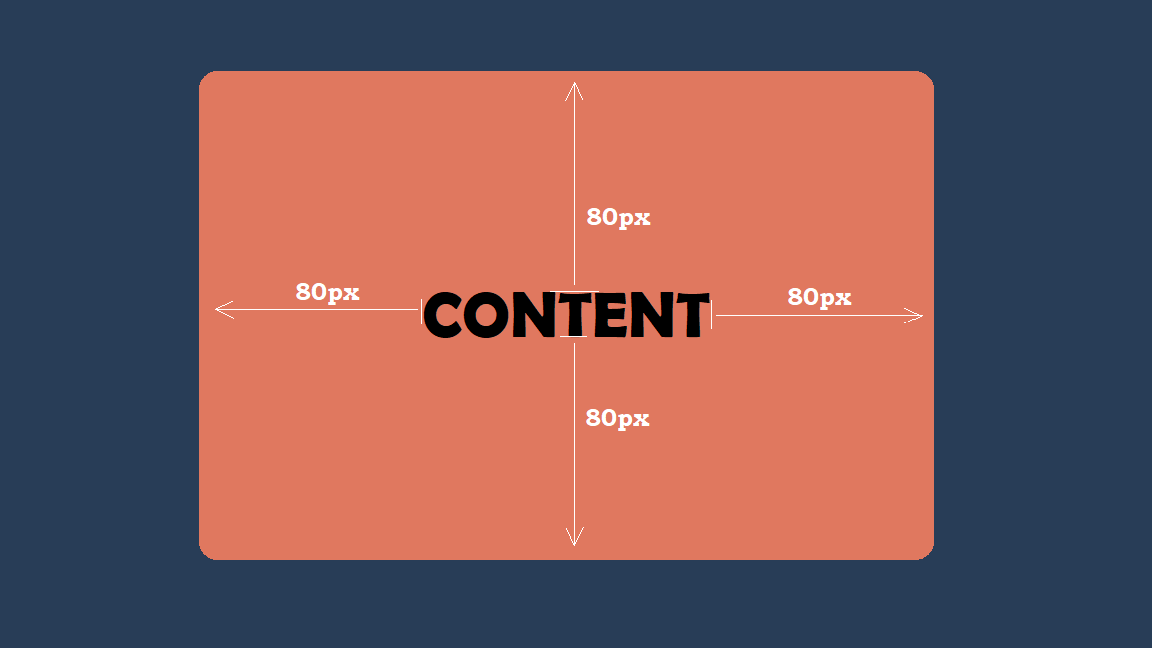
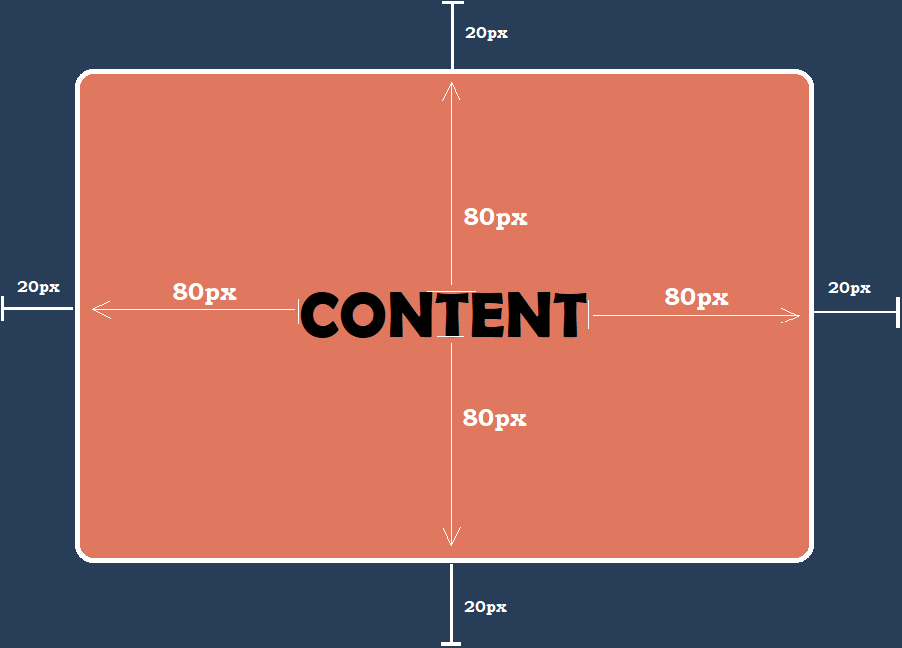
Image and text correction

Changed region(s): [[0.0, 0.0, 0.9623, 1.0], [0.9933, 0.463, 1.0, 0.5247]]

diff --git a/index.html b/index.html
@@ -28,46 +28,50 @@
             </div>
             <div>
                 <p>
-                .example1{
-                    padding:<strong>80px;</strong> 
-                } 
+                .example1{</br>
+                    padding:<strong>80px;</strong><br>
+                    margin: <strong>20px;</strong><br>
+                }<br>
                 </p>
                 <img src="./1VAL.png">
                 <p>
-                    One value is used when the same padding is applied to all four sides of the content.
+                    One value is used when the same quantity is applied to all four sides of the content.
                 </p>
             </div> 
             <div>
                 <p>
-                    .example2{
-                        padding:<strong> 15px 10px ;</strong>  
+                    .example2{ <br>
+                        padding:<strong> 10px 15px ;</strong> <br>
+                        margin: <strong>50px 5px;</strong> <br>
                     }
                 </p>
-                <img src="https://blog.hubspot.com/hs-fs/hubfs/Google%20Drive%20Integration/Update%20css%20margin%20vs%20padding-4.png?width=400&name=Update%20css%20margin%20vs%20padding-4.png">
+                <img src="./2VAL.png">
                 <p>
-                    Two values are used to define an equal value for both top and bottom padding (15px)- known as vertical padding- and another value that's the same for both right and left padding (10px)- known as horizontal padding.
+                    Two values are used to define both vertical (top and bottom) spacing and horizontal (left and right) spacing for padding and margin.
                 </p>
             </div>
             <div>
                 <p>
-                    .example3{
-                        padding:<strong>80px 120px 100px;</strong>
+                    .example3{ <br>
+                        padding:<strong>80px 120px 100px;</strong><br>
+                        margin: <strong>2px 10px 5px;</strong><br>
                     }
                 </p> 
                 <img src="./3VAL.png">
                 <p>
-                    We use 3 values when <strong>left and right padding</strong>-horizontal padding- <strong>are equal</strong> and you want to define the padding in all 4 sides.
+                    We use 3 values when <strong>left and right spacing values (horizontal spacing)</strong><strong>are equal</strong> and you want to define the spacing for all 4 sides of the element.
                 </p>
             </div>
             <div>
                 <p>
-                    .example4{
-                        padding:<strong>80px 100px 120px 140px;</strong>
+                    .example4{<br>
+                        padding:<strong>80px 100px 120px 140px;</strong><br>
+                        margin: <strong>3px 10px 1px 2px;</strong><br>
                     }
                 </p> 
                 <img src="./4VAL.png">
                 <p>
-                    We use 4 values when we want to define a different padding for all 4 sides.
+                    We use 4 values when we want to define a different spacing for all 4 sides.
                 </p>
             </div>
             <div>
@@ -86,12 +90,12 @@
                 <h2>
                     Interaction next to other elements: Collapsation
                 </h2>
-                <h3>
-                    Element's Padding and horizontal Margins (left and right margins) DO NOT COLLAPSE, but VERTICAL MARGINS-top and bottom margins- DO COLLAPSE.
-                </h3>
+                <h4>
+                    Element's Padding & horizontal Margins (left and right margins) DO NOT COLLAPSE, but VERTICAL MARGINS-top and bottom margins- DO COLLAPSE.
+                </h4>
                 <img src="Collapsation.png">
                 <p>
-                    It is an phenomenon which occurs when the top or bottom margin of one element comes into contact with the top or bottom margin of another element. 
+                    It is a phenomenon which occurs when the top or bottom margin of one element comes into contact with the top or bottom margin of another element. 
                     Only vertical margins collapse, horizontal  margins do not. 
                     In collapsing of two margins, the distance between the two boxes will use whichever margin value is greater. 
                     Margin collapsing also happens when an element is nested inside another element. Irrespective of contact of elements, even an element inside of another element will margin collapse with its parent if the two margins come into contact. 
